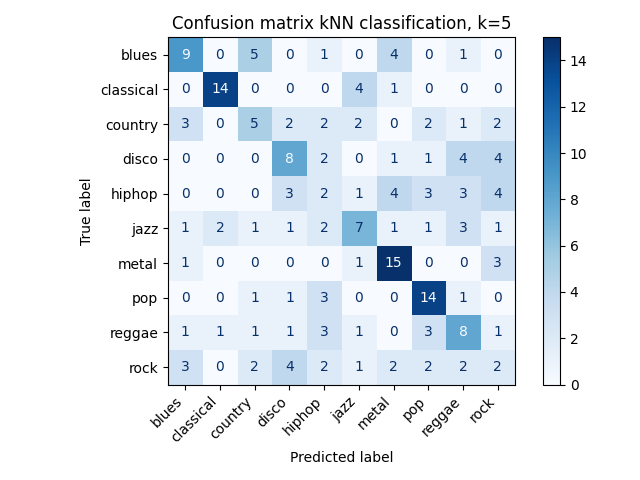
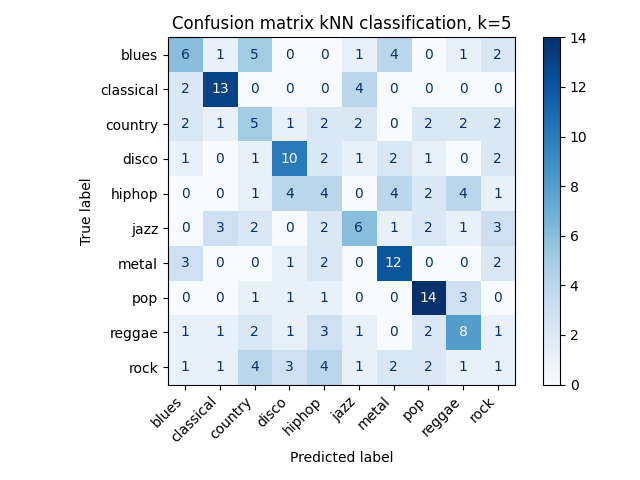
Updated task 4

diff --git a/4knnclassifier.py b/4knnclassifier.py
@@ -1,0 +1,132 @@
+import numpy as np
+import pandas as pd
+from sklearn.preprocessing import StandardScaler
+from collections import Counter
+from datautilities import readfromtabcsv, zscorenormalize
+import matplotlib.pyplot as plt
+from sklearn.metrics import ConfusionMatrixDisplay
+
+def find_nearest(model_features,model_labels,test_features):
+
+    distances = np.linalg.norm(model_features - test_features, axis=1)
+    indexes_of_k_closest = np.argpartition(distances, k)[:k]
+    nearest_labels = model_labels[indexes_of_k_closest]
+    nearest_distances = distances[indexes_of_k_closest]
+
+
+    counts = Counter(nearest_labels)
+    max_count = max(counts.values())
+
+    candidates = [label for label, count in counts.items() if count == max_count]
+
+    if len(candidates) == 1:
+        majority_class = candidates[0]
+    else:
+        distance_sums = {
+            label: np.sum(nearest_distances[nearest_labels == label])
+            for label in candidates
+        }
+        majority_class = min(distance_sums, key=distance_sums.get)
+
+    # print("The classes of the 5 nearest neighbors:", labels[indexes_of_k_closest])
+    # print("Guess:", majority_class)
+
+    return majority_class
+
+
+# kNN-modell
+k = 7
+
+
+# kNN k=5 classifier with normalized axes stepwise updated to include only the best features:
+# 67.17%. Inferior to k=7 model
+colsfork5 = [
+    "mfcc_1_mean",
+     "spectral_contrast_mean",
+     "mfcc_5_std",
+     "chroma_stft_9_mean",
+     "rmse_mean",
+     "rmse_var",
+     "spectral_centroid_mean",
+     "mfcc_6_mean",
+     "spectral_contrast_var",
+]
+# For k=7 30s: 72.22%
+# For k=7 10s: 63.63%
+# For k=7 5s: 60.86%
+cols = [
+     "spectral_flatness_var",
+     "spectral_contrast_var",
+     "mfcc_8_std",
+     "rmse_var",
+     "chroma_stft_4_mean",
+     "spectral_bandwidth_mean",
+     "mfcc_5_std",
+     "spectral_flatness_mean",
+     "spectral_rolloff_mean",
+     "spectral_contrast_mean",
+     "mfcc_3_std",
+     "rmse_mean",
+     "mfcc_6_mean",
+     "spectral_rolloff_var",
+     "spectral_flatness_var",
+     "mfcc_2_mean",
+     "spectral_contrast_var",
+]
+
+duration = "30s"
+train_features,train_labels,test_features,test_labels = readfromtabcsv("Music files/GenreClassData_"+duration+".txt",cols)
+
+#Z score normalize axes
+mean = np.mean(train_features,axis=0)
+std = np.sqrt(np.var(train_features,axis=0))
+train_features = (train_features-mean)/std
+test_features = (test_features-mean)/std
+
+genres = np.unique(train_labels)
+
+genre_to_index = {genres[i]: i for i in range(len(genres))}
+confusion_matrix = np.zeros((len(genres),len(genres)))
+correct_per_genre = {g: 0 for g in genres}
+total_per_genre = {g: 0 for g in genres}
+correctly_classified = 0
+
+
+for test_feature,true_label in zip(test_features,test_labels):
+
+    majority_class = find_nearest(train_features,train_labels,test_feature)
+    
+    confusion_matrix[genre_to_index[true_label]][genre_to_index[majority_class]]+= 1
+
+    if majority_class == true_label:
+        correctly_classified += 1
+        correct_per_genre[true_label] += 1
+
+    total_per_genre[true_label] += 1
+
+
+
+
+treff_forhold = correctly_classified / len(test_features)
+print(f"Treffprosent totalt: {100*treff_forhold:.2f}%")
+
+
+print("\nTreffprosent per sjanger:")
+
+for g in genres:
+    if total_per_genre[g] > 0:
+        acc = correct_per_genre[g] / total_per_genre[g]
+        print(f"{g}: {100*acc:.2f}% ({correct_per_genre[g]}/{total_per_genre[g]})")
+
+
+
+disp = ConfusionMatrixDisplay(confusion_matrix=confusion_matrix,
+                            display_labels=genres,
+                            # cmap=plt.cm.Blues
+                            )
+# disp.plot()
+disp.plot(cmap="Blues")
+plt.xticks(rotation=45, ha="right")  # rotate x-axis labels
+plt.title("Confusion matrix kNN classification, k="+str(k))
+plt.tight_layout()
+plt.savefig("plots/4knn"+duration+"confusion",bbox_inches="tight")

diff --git a/datautilities.py b/datautilities.py
@@ -1,13 +1,27 @@
 import pandas as pd
+import numpy as np
 
 
 def readfromtabcsv(filepath,cols):
     df = pd.read_csv(filepath, sep="\t", usecols=cols+["Genre","Type"])
 
-    train_features = df[df["Type"]=="Train"].drop(columns=["Genre","Type"]).values
+    train_features = df[df["Type"]=="Train"][cols].values
     train_labels = df[df["Type"]=="Train"]["Genre"].values
 
-    test_features = df[df["Type"]=="Test"].drop(columns=["Genre","Type"]).values
+    test_features = df[df["Type"]=="Test"][cols].values
     test_labels = df[df["Type"]=="Test"]["Genre"].values
 
     return train_features,train_labels,test_features,test_labels
+
+def zscorenormalize(matrix,mean=None,std=None):
+    # Expects matrix on form (samples,features)
+    # vector = (vector-mu)/sigma
+    if mean!=None and std!=None:
+        normalized_matrix = (matrix-mean)/std
+    else:
+        mean = np.mean(matrix,axis=0)
+        std = np.sqrt(np.var(matrix,axis=0))
+        normalized_matrix = (matrix-mean)/std
+
+    return normalized_matrix, mean, std
+

diff --git a/1knn.py b/1knn.py
@@ -4,6 +4,7 @@ from sklearn.preprocessing import StandardScaler
 from collections import Counter
 import matplotlib.pyplot as plt
 from sklearn.metrics import ConfusionMatrixDisplay
+from datautilities import readfromtabcsv
 
 
 # kNN-modell, k = 5
@@ -25,13 +26,7 @@ cols = [
     "Type"
 ]
 
-df = pd.read_csv("Music files/GenreClassData_30s.txt", sep="\t", usecols=cols)
-
-train_features = df[df["Type"]=="Train"].drop(columns=["Genre","Type"]).values
-train_labels = df[df["Type"]=="Train"]["Genre"].values
-
-test_features = df[df["Type"]=="Test"].drop(columns=["Genre","Type"]).values
-test_labels = df[df["Type"]=="Test"]["Genre"].values
+train_features,train_labels,test_features,test_labels = readfromtabcsv("Music files/GenreClassData_30s.txt",cols)
 
 genres = np.unique(train_labels)
 